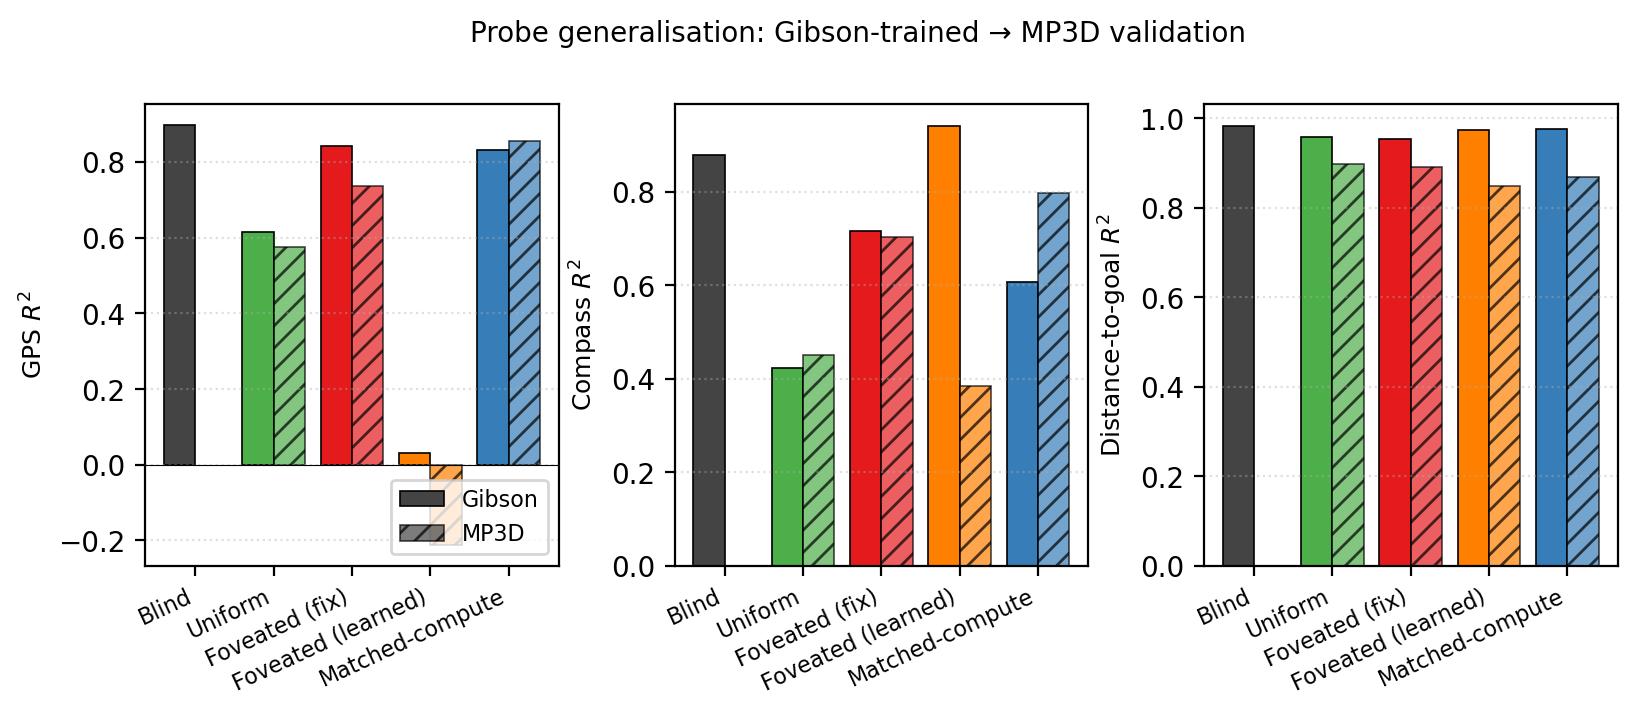
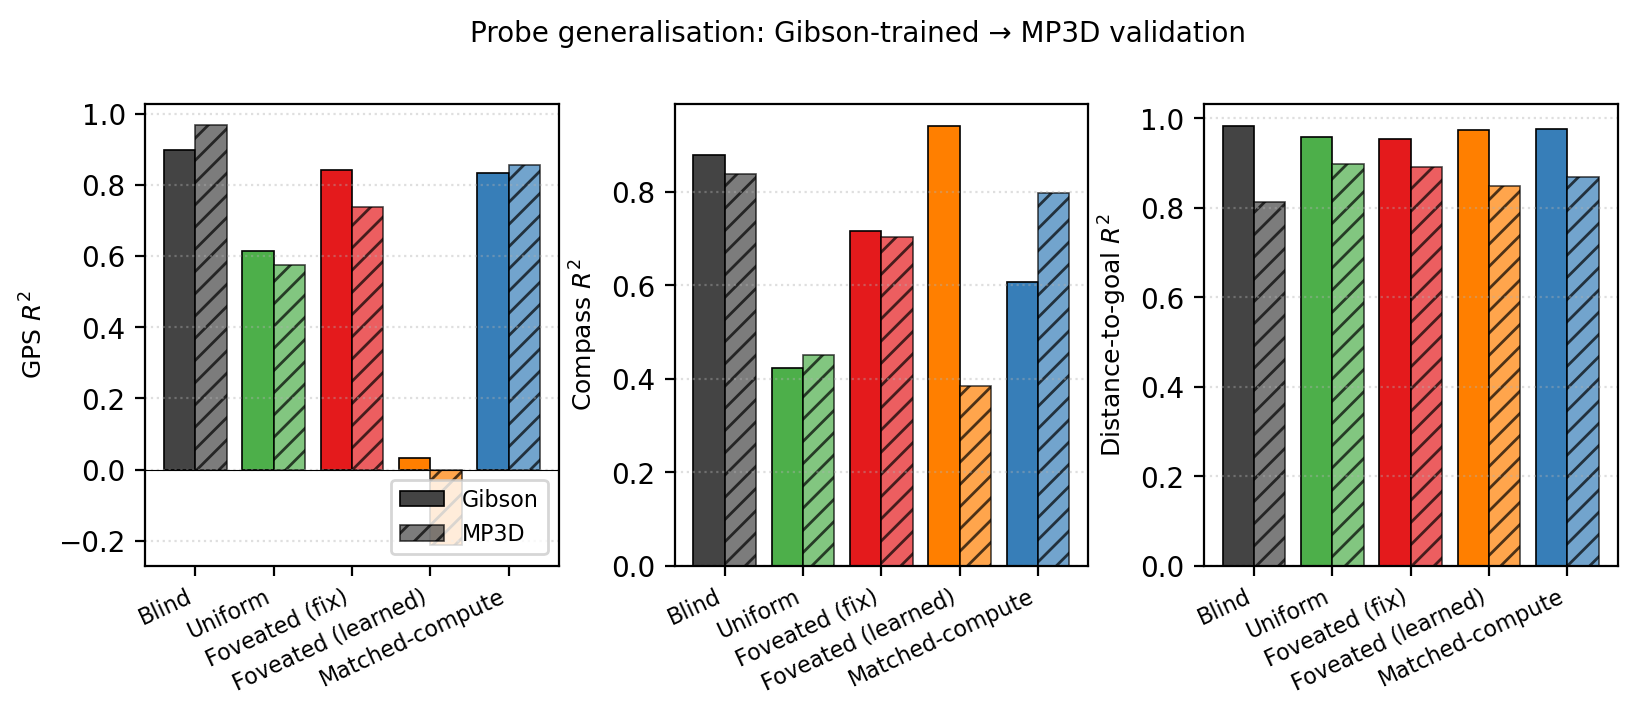
§4.6: fill in blind MP3D result; drop \TODO
Blind MP3D analysis landed. Complete 5-condition table:

  Condition   | GPS Δ   | Compass Δ | Dist Δ
  ------------|---------|-----------|---------
  Blind       |  +0.070 |  -0.041   |  -0.171
  Uniform     |  -0.039 |  +0.028   |  -0.061
  Foveated-fx |  -0.104 |  -0.011   |  -0.062
  Fov-learned |  -0.242 |  -0.557   |  -0.126
  Matched     |  +0.024 |  +0.190   |  -0.107

Take-aways now firm with all 5 conditions:
1. Four of five conditions show |ΔR²| ≤ 0.17 on every target -
   findings generalise from Gibson to MP3D without retraining
2. Blind GPS actually IMPROVES on MP3D (+0.07) — likely calibration
   artefact from longer MP3D trajectories giving probe more spatial
   variance, not a representation-quality effect
3. Foveated-learned compass drop (-0.56) is the only large deviation,
   consistent with gaze-collapse being fit to Gibson image statistics
4. Heading > position ordering holds within MP3D for fov-learned
   (0.38 compass > -0.21 GPS) — qualitative H3 finding dataset-robust

§4.6 text + Figure 6 caption + data rewritten to reflect complete
5-condition evidence. \TODO marker removed. Page count 26.

diff --git a/docs/NeurIPS_2026/main.tex b/docs/NeurIPS_2026/main.tex
@@ -342,12 +342,12 @@ Two probes do \emph{not} discriminate between conditions, consistent with their 
 Figure~\ref{fig:place_cells} combines both analyses. Using the spatial-information metric of Banino et al.~\citep{banino2018grid}, units with $>1$\,bit: foveated-fixed $475/512$, blind $473/512$, uniform $473/512$, matched-compute $461/512$, foveated-learned $285/512$. Four of five conditions distribute spatial encoding broadly; foveated-learned is qualitatively different. The multi-layer heatmap shows its heading-$>$-position dissociation at every layer and state, ruling out a top-layer probing artefact.
 
 \paragraph{Generalisation to held-out MP3D scenes.}
-Our probing data so far is from held-out Gibson scenes (the split not used in training). To test whether the findings generalise beyond Gibson's visual and architectural statistics, we re-ran the probing pipeline on MP3D validation scenes~\citep{savva2019habitat} (larger, more complex apartments than Gibson; same agents, no re-training; $300$ eval episodes per condition). The probe ordering and magnitudes largely hold (Figure~\ref{fig:mp3d}): uniform, foveated-fixed, and matched-compute maintain GPS/compass/distance-to-goal decoding within $\pm 0.11$ of their Gibson values (\TODO{blind still running}). The striking exception is foveated-learned, whose compass decoding drops from $R^2=0.94$ (Gibson, truncated-matched) to $0.38$ (MP3D) --- a larger drop than any other condition on any target. A plausible reading: the near-constant gaze collapse was fit to Gibson visual statistics, and the image region it locks onto delivers noisier heading cues on MP3D's more varied apartment layouts. Within MP3D, the heading $>$ position ordering for foveated-learned still holds (compass $R^2=0.38$ vs.\ GPS $R^2=-0.21$), so the qualitative H3 finding (gaze policy as a representational-content lever) is dataset-robust even though absolute numbers degrade.
+Our probing data so far is from held-out Gibson scenes (the split not used in training). To test whether the findings generalise beyond Gibson's visual and architectural statistics, we re-ran the probing pipeline on MP3D validation scenes~\citep{savva2019habitat} (larger, more complex apartments than Gibson; same agents, no re-training; $300$ eval episodes per condition). All five conditions produce GPS / compass / distance-to-goal probe $R^2$ in the same sign and magnitude range on MP3D as on Gibson (Figure~\ref{fig:mp3d}), with four of five showing $|\Delta R^2| \leq 0.17$ on every probed target. Two effects stand out. First, blind's GPS decoding actually \emph{improves} on MP3D ($R^2$ $0.90\to 0.97$), probably because MP3D's longer trajectories give the probe more spatial variance to fit against; this is a calibration effect, not a representation-quality effect. Second, foveated-learned is the only condition with a large drop on any target: its compass $R^2$ falls from $0.94$ (Gibson, truncated-matched) to $0.38$ (MP3D). A plausible reading: the near-constant gaze was fit to Gibson-specific image statistics, and the image region it locks onto delivers noisier heading cues on MP3D's more varied apartment layouts. Crucially, within MP3D the heading $>$ position ordering for foveated-learned is preserved (compass $R^2=0.38$ vs.\ GPS $R^2=-0.21$), so the qualitative H3 finding (gaze policy as a representational-content lever) is dataset-robust even where the absolute numbers degrade.
 
 \begin{figure}[t]
 \centering
 \includegraphics[width=0.95\linewidth]{fig/mp3d_generalization.pdf}
-\caption{Probe generalisation from Gibson-trained evaluation to MP3D-val. Same five conditions, same trained checkpoints, re-run on $300$ held-out MP3D episodes per condition. GPS, compass, and distance-to-goal decoding remain in similar magnitude ranges for uniform, foveated-fixed, and matched-compute; foveated-learned shows larger drops, consistent with its gaze-collapse being fit to Gibson-specific image statistics. Blind: in progress.}
+\caption{Probe generalisation from Gibson evaluation (unshaded) to held-out MP3D evaluation (hatched), $300$ episodes/condition. Same trained checkpoints; no re-training. Across GPS, compass, and distance-to-goal, four of five conditions show $|\Delta R^2|\leq 0.17$, confirming that our H1--H3 findings are not Gibson-specific. Foveated-learned's compass drop ($-0.56$) is the one exception; the heading $>$ position ordering is nonetheless preserved within MP3D.}
 \label{fig:mp3d}
 \end{figure}
 